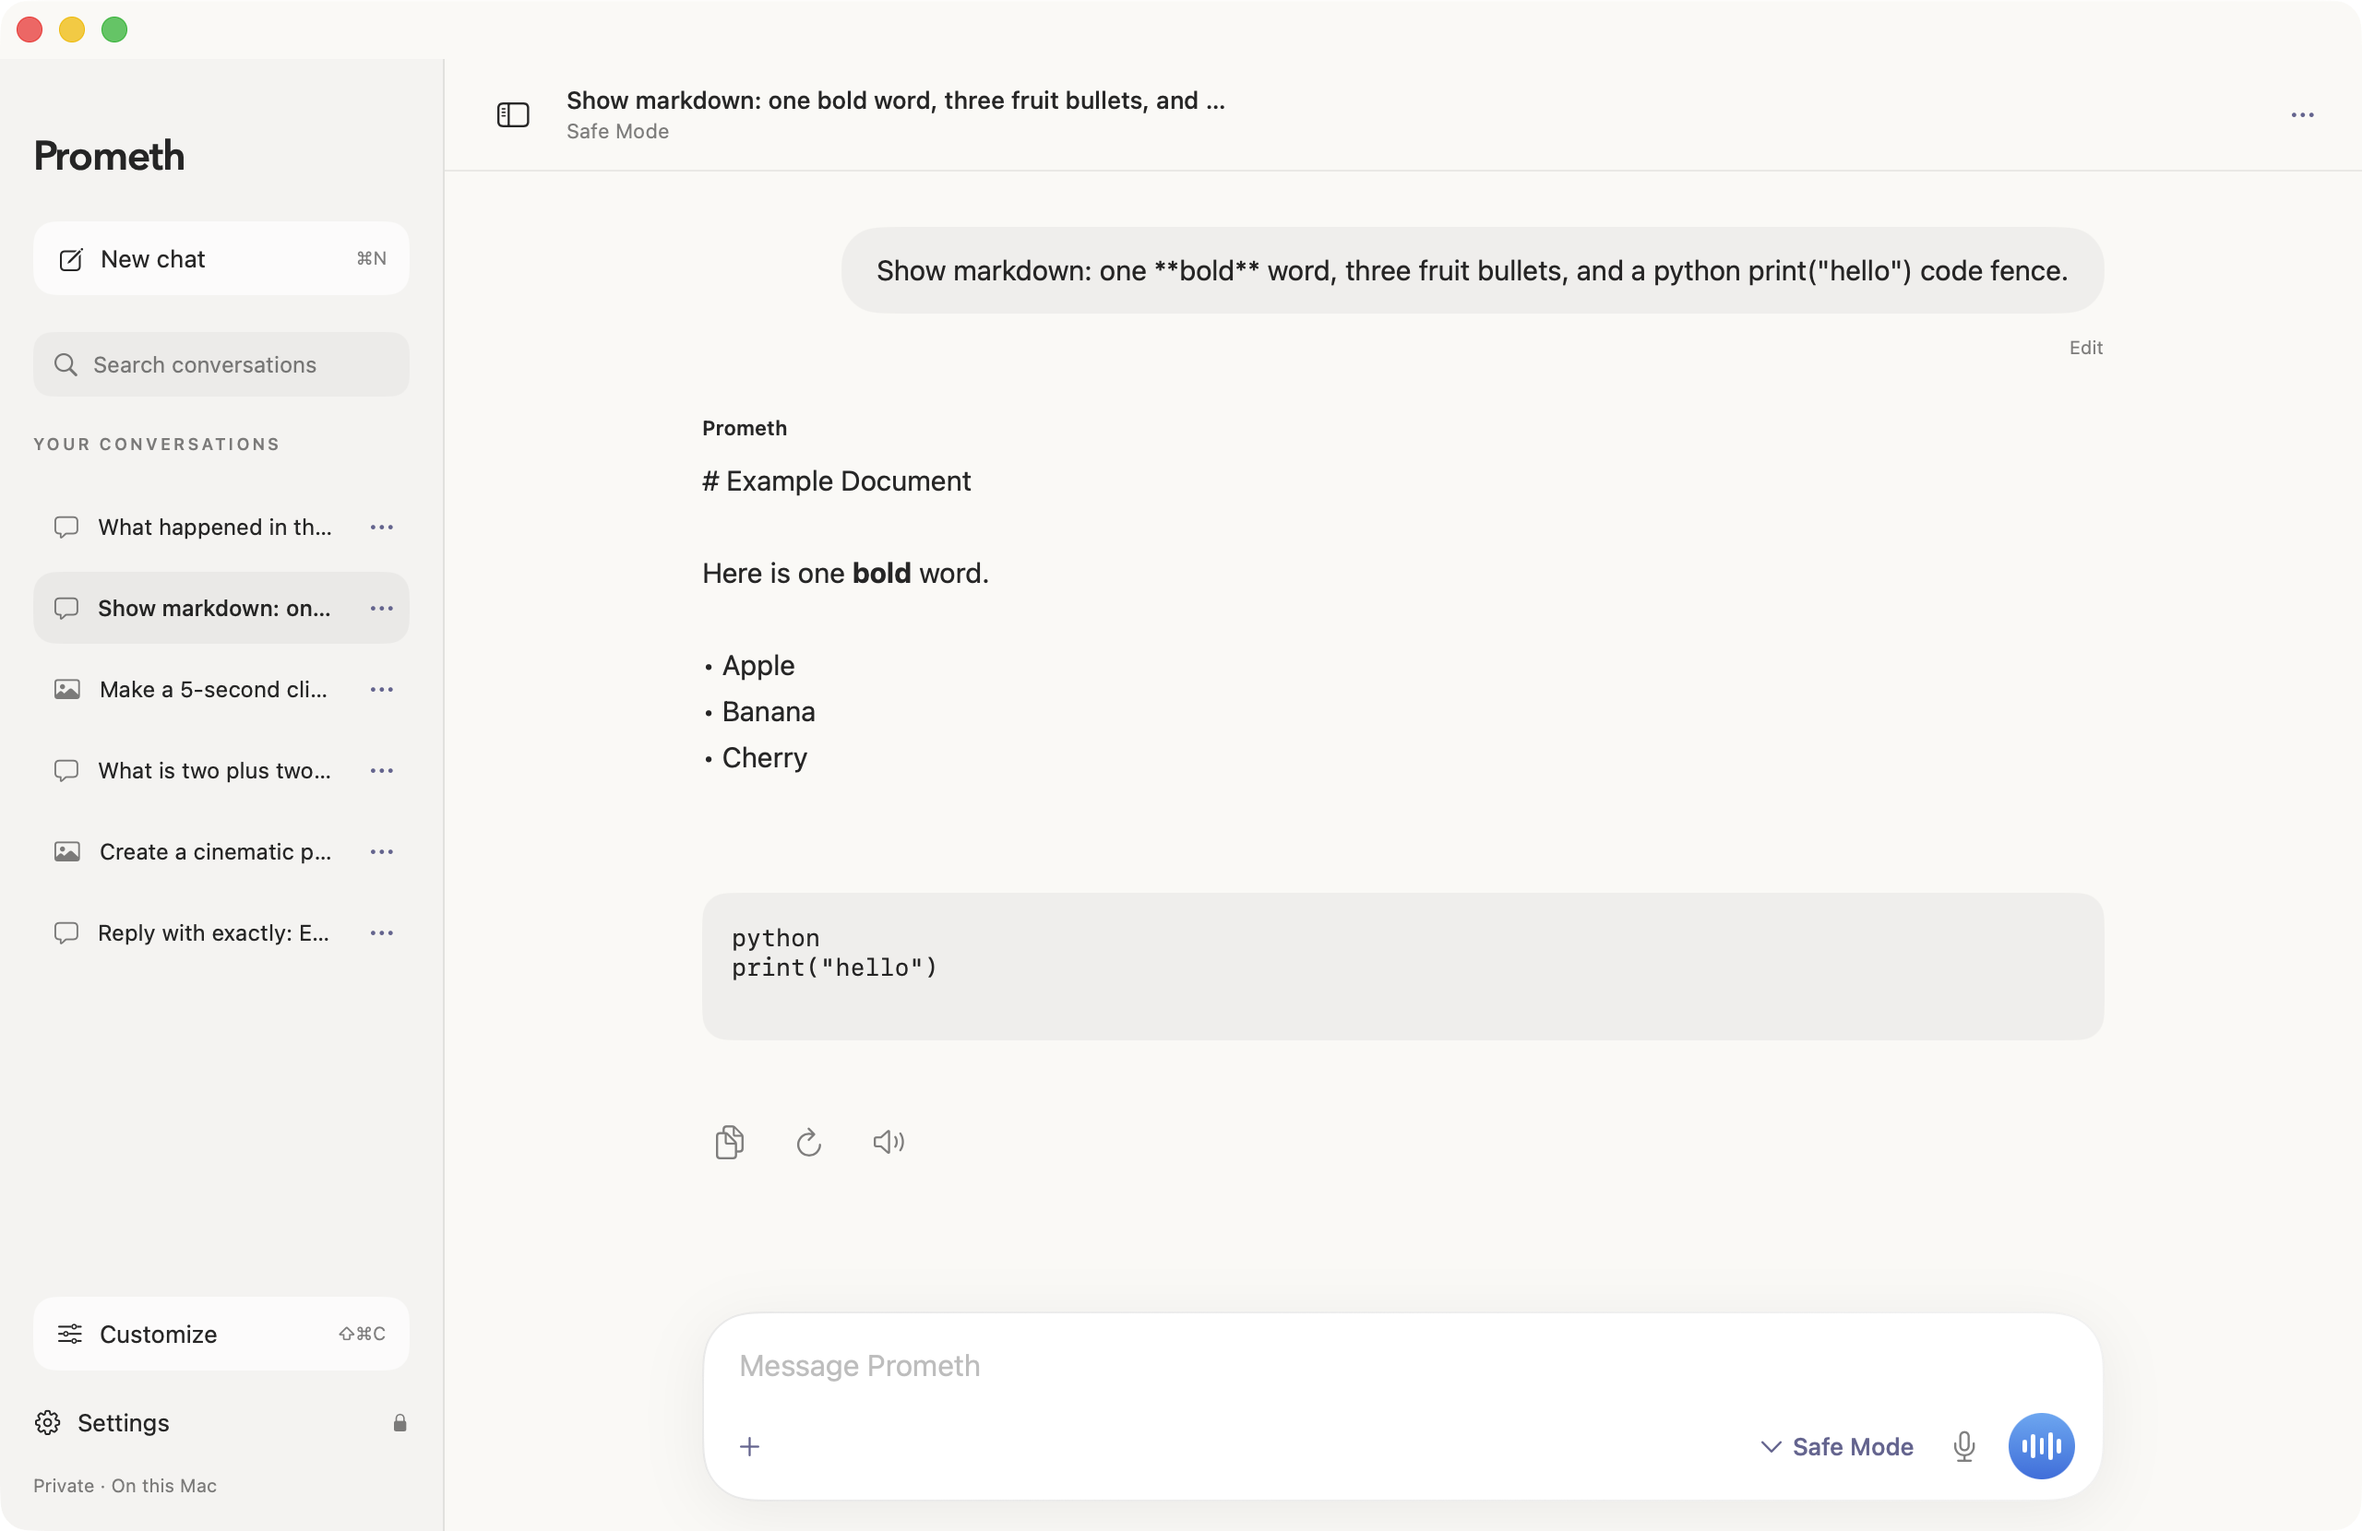
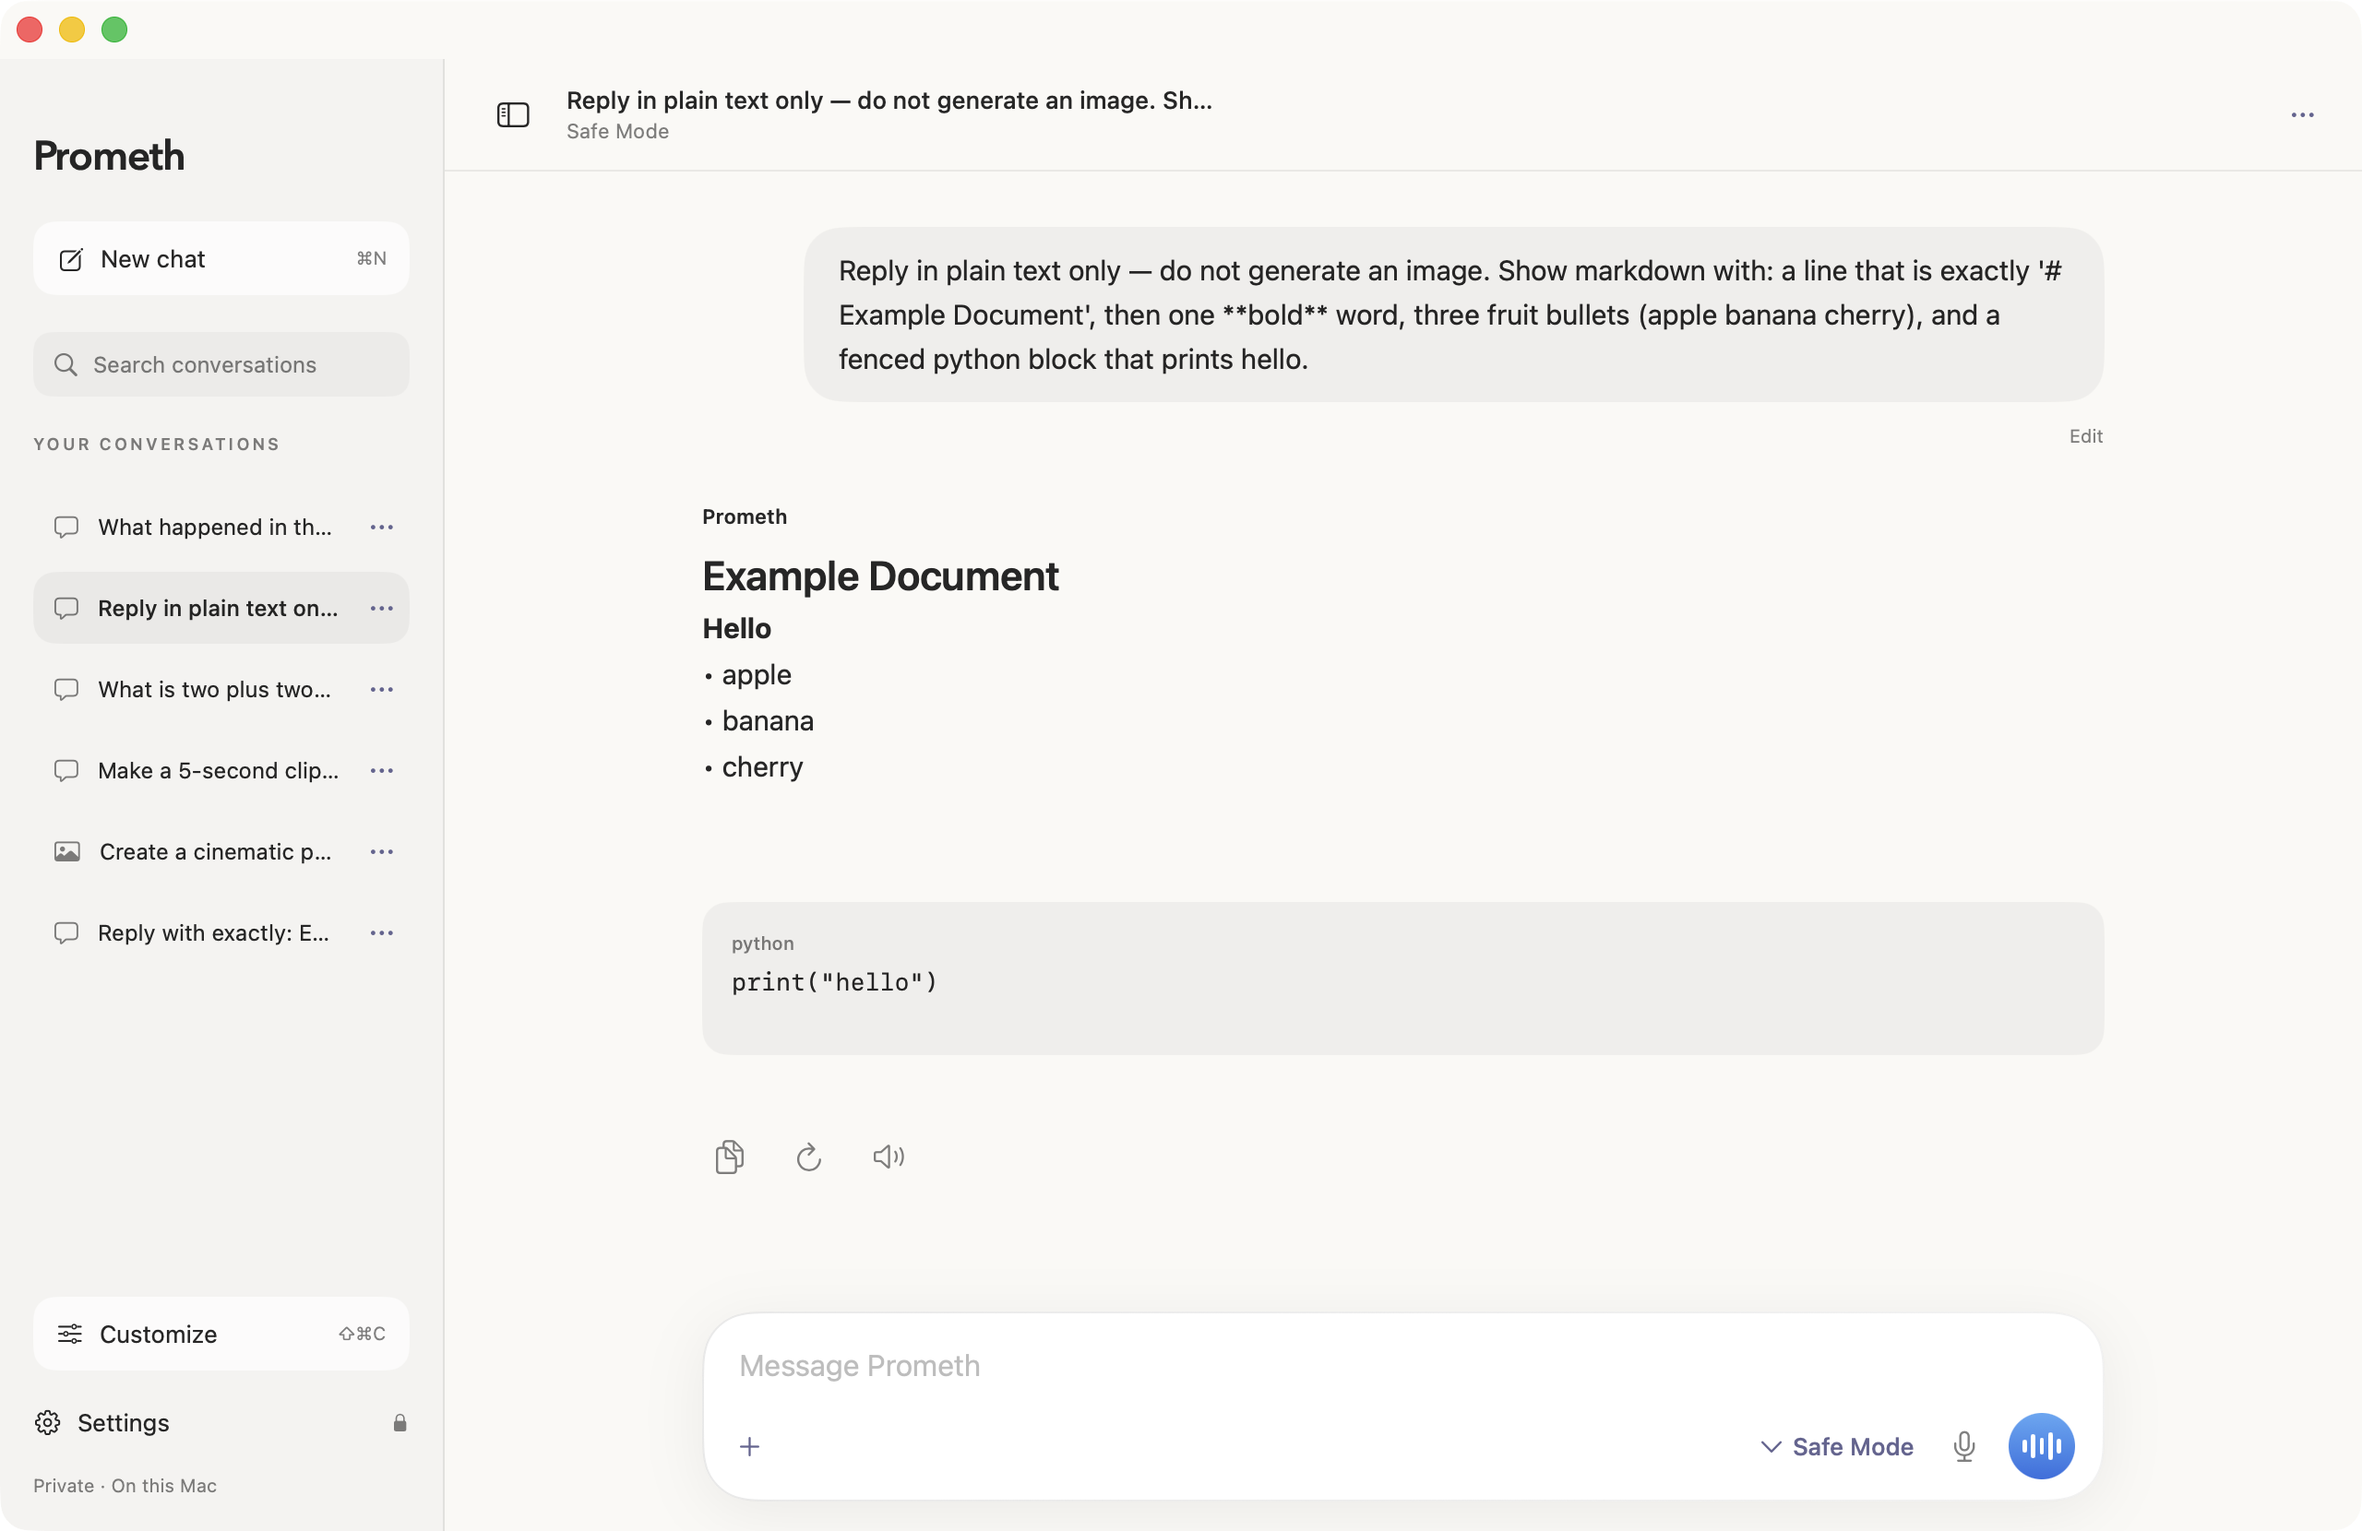
docs: polish4 live screenshots and judge package evidence
Record heading/fence/.n/Sources fixes, Automation Mode block, refreshed
final-chat and final-search, and the Release zip checksum.

diff --git a/Docs/progress/macverify/POLISH4.md b/Docs/progress/macverify/POLISH4.md
@@ -1,0 +1,49 @@
+# Judge polish 4 — headings / fence label / `.n` / Sources (2026-10-27)
+
+Host: Apple M5 Max. Branch `prometh`. Follow-up after reviewer pass on POLISH3 `final-*.png`. Target: finish by ~11:15 AM BA before noon judge send.
+
+## Defects fixed
+
+| # | Defect | Fix | Evidence |
+|---|---|---|---|
+| 1 | `final-chat.png`: literal `# Example Document` | `PromethReplyMarkup` renders ATX `#`/`##`/`###` as sized semibold lines (inline-only markdown ignores headings). | Unit: `testATXHeadingsRenderWithoutHashMarkers`. Live: `final-chat.png` shows **Example Document** as a heading, no hash. |
+| 2 | `final-chat.png`: fence info string `python` leaked as first code line | `PromethCodeFence.split` peels the info string; Workspace shows it as a 10 pt secondary label above the monospaced body (never as code). | Unit: `testFenceInfoStringIsNotCodeContent`. Live: `final-chat.png` — small `python` label + `print("hello")`. |
+| 3 | `final-search.png`: `has.n clashes` | Root cause: attachment scrub `(?:view\|see\|open)` matched inside **seen** (all tails optional). Now requires word boundaries and an `attachment id` tail. | Unit: `testScrubDoesNotCorruptSeenIntoDotN` (exact “has seen clashes” input). Live search reply has no `.n`. |
+| 4 | `final-search.png`: almost all chips `[1]`, Sources missing | Remapper keeps the model’s chip when that source clears support (so `[1]`/`[2]` stay distinct). Prefetch links/hits persist to `prefetch-sources.json` so Sources survive curated relaunch. | Unit: `testCitationRemapperKeepsDistinctChipsAcrossMultipleSources`. Live: chips `[1]`×3 + `[2]` (Pike); Sources World Now + 7NEWS visible. |
+
+## Screenshots
+
+Clean-history approach:
+
+- Backup: `~/Desktop/Prometh-conversation-backup-20261027-094507` (kept; earlier backups also kept).
+- Curated sidebar for shots: live markdown + live search + image/video/evil/math sessions, then **restored** to 68 sessions.
+
+Only affected shots re-taken live (no fixture injection):
+
+- `final-chat.png` — live text-only markdown (heading + bold + fruit bullets + python fence).
+- `final-search.png` — live news search with prefetch; Sources row visible after relaunch via disk persistence.
+
+Checks: Prometh branding only; no Nativ chrome; no raw `#` heading; fence language not monospaced code; no `.n`; distinct chips; Sources visible; empty composer; no attachment UUIDs.
+
+## Gates
+
+| Gate | Result |
+|---|---|
+| `./scripts/prometh/build.sh` | **PASS** |
+| `make verify` | **PASS** |
+| `xcodebuild … -only-testing:PromethTests` | **PASS** — 63 tests, 0 failures |
+| `xcodebuild … -only-testing:PromethUITests` | **BLOCKED** — `automationmodetool`: Automation Mode is disabled (requires local user authentication). Did not wait or retry. |
+
+## Package
+
[1 lines of base64/hex data omitted]
+- `final-chat` / `final-search` refreshed in repo and judges folder; other screenshots unchanged
+- `Docs/JUDGES.md` unchanged (screenshot list already complete)
+- Conversation backup kept; live store restored to 68 sessions
+
+## Notes
+
+- Nativ features were not deleted; unused surfaces stay hidden.
+- Pushed to `origin/prometh` only (no force-push).
+- Never printed `~/.config/prometh/composio.env`.
+- Commits: seen-scrub fix; ATX headings + fence label; distinct chips + Sources persistence; this doc.

diff --git a/Docs/progress/macverify/PACKAGE.md b/Docs/progress/macverify/PACKAGE.md
@@ -1,6 +1,6 @@
 # Phase C — judge package (polish refresh)
 
-Host: Apple M5 Max, 128 GB, macOS 26.6.2, arm64. Branch `prometh`. Package rebuilt 2026-10-27 (America/Argentina/Buenos_Aires) after reviewer defect fixes. See `POLISH.md`, `POLISH2.md`, and `POLISH3.md`.
+Host: Apple M5 Max, 128 GB, macOS 26.6.2, arm64. Branch `prometh`. Package rebuilt 2026-10-27 (America/Argentina/Buenos_Aires) after reviewer defect fixes. See `POLISH.md`, `POLISH2.md`, `POLISH3.md`, and `POLISH4.md`.
 
 ## Polish
 
@@ -16,8 +16,8 @@ Host: Apple M5 Max, 128 GB, macOS 26.6.2, arm64. Branch `prometh`. Package rebui
 |---|---|
 | `./scripts/prometh/build.sh` | **PASS** |
 | `make verify` | **PASS** |
-| `xcodebuild … -only-testing:PromethTests` | **PASS** — 54 tests, 0 failures |
-| `xcodebuild … -only-testing:PromethUITests` | **PASS** — 6 tests, 0 failures |
+| `xcodebuild … -only-testing:PromethTests` | **PASS** — 63 tests, 0 failures |
+| `xcodebuild … -only-testing:PromethUITests` | **BLOCKED** — Automation Mode disabled (`automationmodetool`) |
 
 ## Release app
 
@@ -32,8 +32,8 @@ Path: `~/Desktop/Prometh-judges/`
 | Item | Notes |
 |---|---|
 | `Prometh.zip` | `ditto -c -k --sequesterRsrc --keepParent Prometh.app Prometh.zip` |
-| Zip size | **624M** (654,387,647 bytes) |
[1 lines of base64/hex data omitted]
+| Zip size | **624M** |
[1 lines of base64/hex data omitted]
 | `JUDGES.md` | Same content as `Docs/JUDGES.md` (chat trim called out) |
 | Screenshots | `final-chat`, `final-search`, `final-image`, `final-image-edit`, `final-video`, `final-video-after-trim`, `final-voice`, `final-evil` |
 
